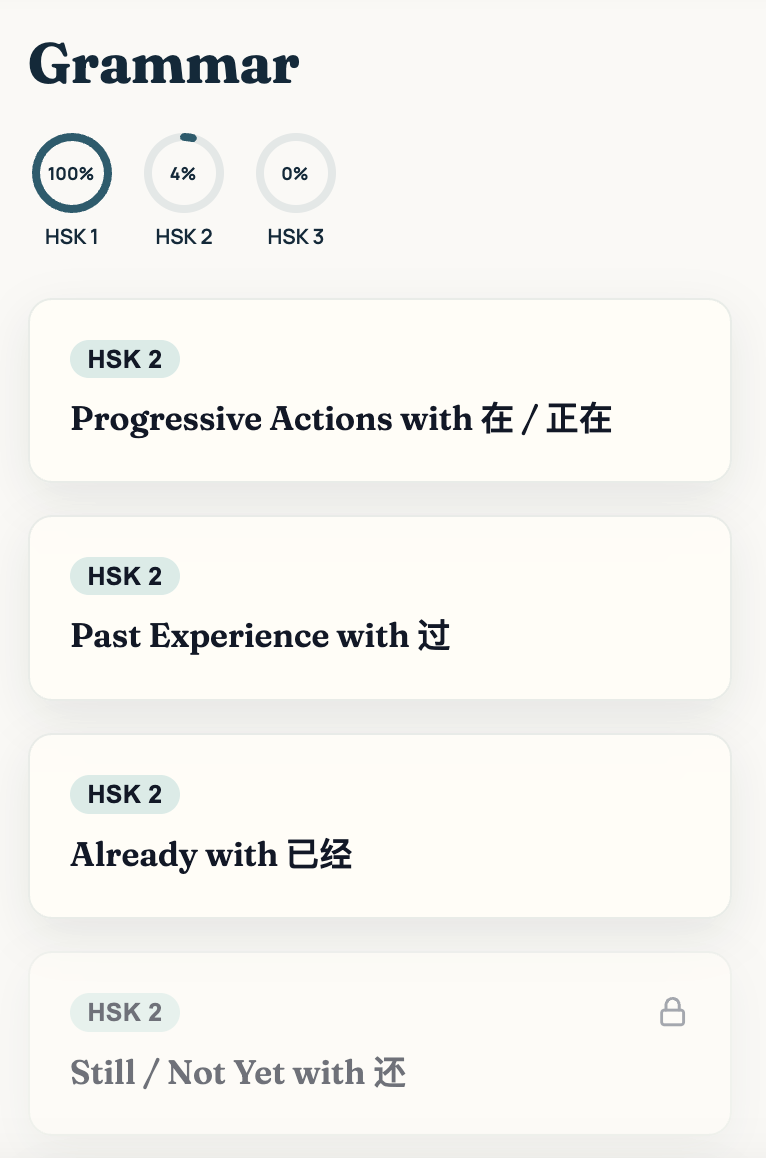
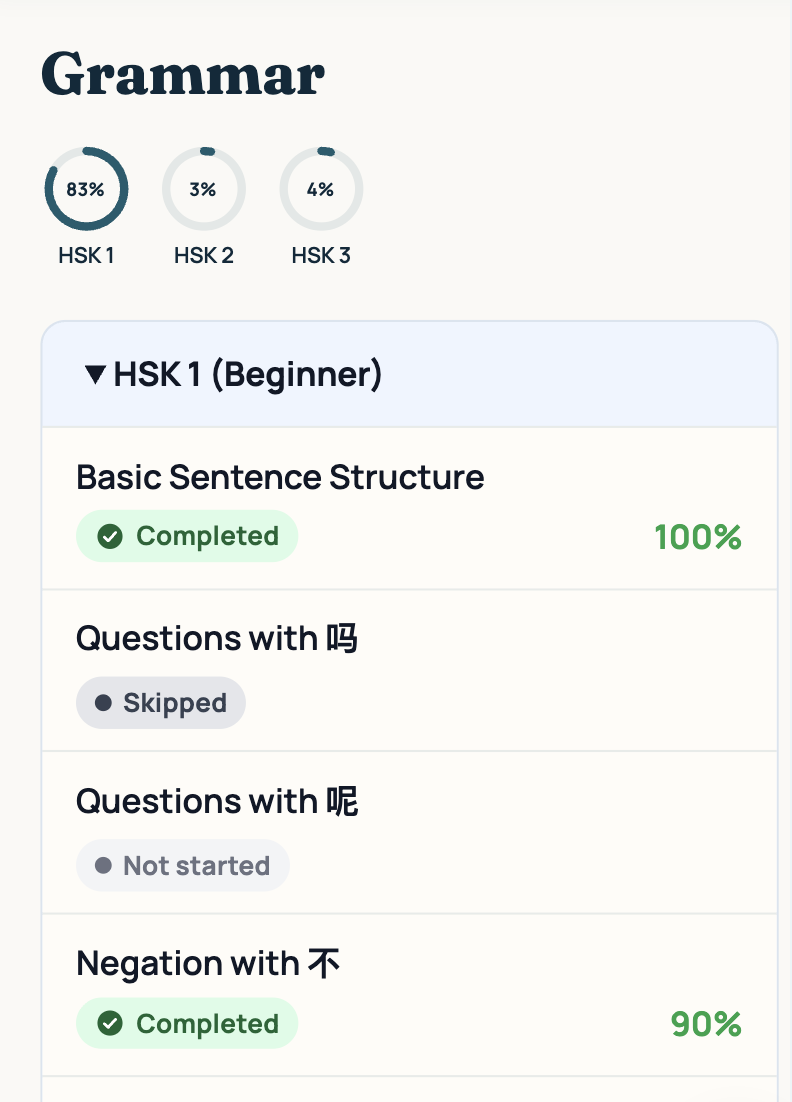
Shuffle answer answers in the frontend

diff --git a/frontend/src/components/GrammarExercises.tsx b/frontend/src/components/GrammarExercises.tsx
@@ -19,6 +19,25 @@ type GrammarExercisesProps = {
   onProgressChange?: (inProgress: boolean) => void;
 };
 
+function shuffledIndices(length: number): number[] {
+  const indices = Array.from({ length }, (_, i) => i);
+  for (let i = indices.length - 1; i > 0; i -= 1) {
+    const j = Math.floor(Math.random() * (i + 1));
+    [indices[i], indices[j]] = [indices[j], indices[i]];
+  }
+  return indices;
+}
+
+function displayOrderFor(exercise: GrammarExercise | undefined): number[] {
+  if (exercise?.type === "multiple_choice") {
+    return shuffledIndices(exercise.choices.length);
+  }
+  if (exercise?.type === "sentence_reordering") {
+    return shuffledIndices(exercise.tokens.length);
+  }
+  return [];
+}
+
 function normalizeAnswer(value: string): string {
   return value.trim().replace(/[。.!?！？，,]+$/g, "");
 }
@@ -117,6 +136,9 @@ export default function GrammarExercises({
   const [validated, setValidated] = useState(false);
   const [isCorrect, setIsCorrect] = useState(false);
   const [selectedChoice, setSelectedChoice] = useState<number | null>(null);
+  const [displayOrder, setDisplayOrder] = useState<number[]>(() =>
+    displayOrderFor(exercises[0]),
+  );
   const [orderedIndices, setOrderedIndices] = useState<number[]>([]);
   const [textAnswer, setTextAnswer] = useState("");
   const [animatedPercentage, setAnimatedPercentage] = useState(0);
@@ -274,8 +296,10 @@ export default function GrammarExercises({
       onFinish?.(Math.round((correctCount / exercises.length) * 100));
       return;
     }
-    setIndex((i) => i + 1);
+    const nextIndex = index + 1;
+    setIndex(nextIndex);
     resetQuestionState();
+    setDisplayOrder(displayOrderFor(exercises[nextIndex]));
   }
 
   function restart() {
@@ -286,6 +310,7 @@ export default function GrammarExercises({
     setScoreRevealed(false);
     setShowConfetti(false);
     resetQuestionState();
+    setDisplayOrder(displayOrderFor(exercises[0]));
   }
 
   if (finished) {
@@ -336,7 +361,8 @@ export default function GrammarExercises({
         <div className={styles.exercisesQuestion}>
           <p>{exercise.question}</p>
           <div className={styles.exercisesChoices}>
-            {exercise.choices.map((choice, choiceIndex) => {
+            {displayOrder.map((choiceIndex) => {
+              const choice = exercise.choices[choiceIndex];
               const isSelected = selectedChoice === choiceIndex;
               const isAnswer = choiceIndex === exercise.answer;
               let stateClass = "";
@@ -385,7 +411,7 @@ export default function GrammarExercises({
             ))}
           </div>
           <div className={styles.exercisesChoices}>
-            {exercise.tokens.map((token, tokenIndex) => (
+            {displayOrder.map((tokenIndex) => (
               <button
                 key={tokenIndex}
                 type="button"
@@ -393,7 +419,7 @@ export default function GrammarExercises({
                 disabled={validated || orderedIndices.includes(tokenIndex)}
                 onClick={() => setOrderedIndices((indices) => [...indices, tokenIndex])}
               >
-                {token}
+                {exercise.tokens[tokenIndex]}
               </button>
             ))}
           </div>

diff --git a/frontend/src/components/GrammarExercises.test.tsx b/frontend/src/components/GrammarExercises.test.tsx
@@ -37,6 +37,43 @@ describe("GrammarExercises", () => {
   afterEach(() => {
     vi.useRealTimers();
     vi.unstubAllGlobals();
+    vi.restoreAllMocks();
+  });
+
+  it("shuffles multiple-choice answers on display and reshuffles after Try again", () => {
+    vi.useFakeTimers();
+    const randomValues = [0, 0.9, 0.9, 0];
+    vi.spyOn(Math, "random").mockImplementation(() => randomValues.shift() ?? 0);
+
+    const threeChoices: GrammarExercise = {
+      id: "mcq_shuffle",
+      type: "multiple_choice",
+      question: "Pick one",
+      choices: ["A", "B", "C"],
+      answer: 0,
+    };
+
+    render(<GrammarExercises exercises={[threeChoices]} />);
+
+    const choiceOrder = () =>
+      screen
+        .getAllByRole("button")
+        .map((button) => button.textContent)
+        .filter((text): text is string => !!text && ["A", "B", "C"].includes(text));
+
+    expect(choiceOrder()).toEqual(["C", "B", "A"]);
+
+    fireEvent.click(screen.getByRole("button", { name: "A" }));
+    fireEvent.click(screen.getByRole("button", { name: "Validate" }));
+    fireEvent.click(screen.getByRole("button", { name: "See score" }));
+
+    act(() => {
+      vi.advanceTimersByTime(1500);
+    });
+
+    fireEvent.click(screen.getByRole("button", { name: "Try again" }));
+
+    expect(choiceOrder()).toEqual(["B", "A", "C"]);
   });
 
   it("shows a fallback message when there are no exercises", () => {
